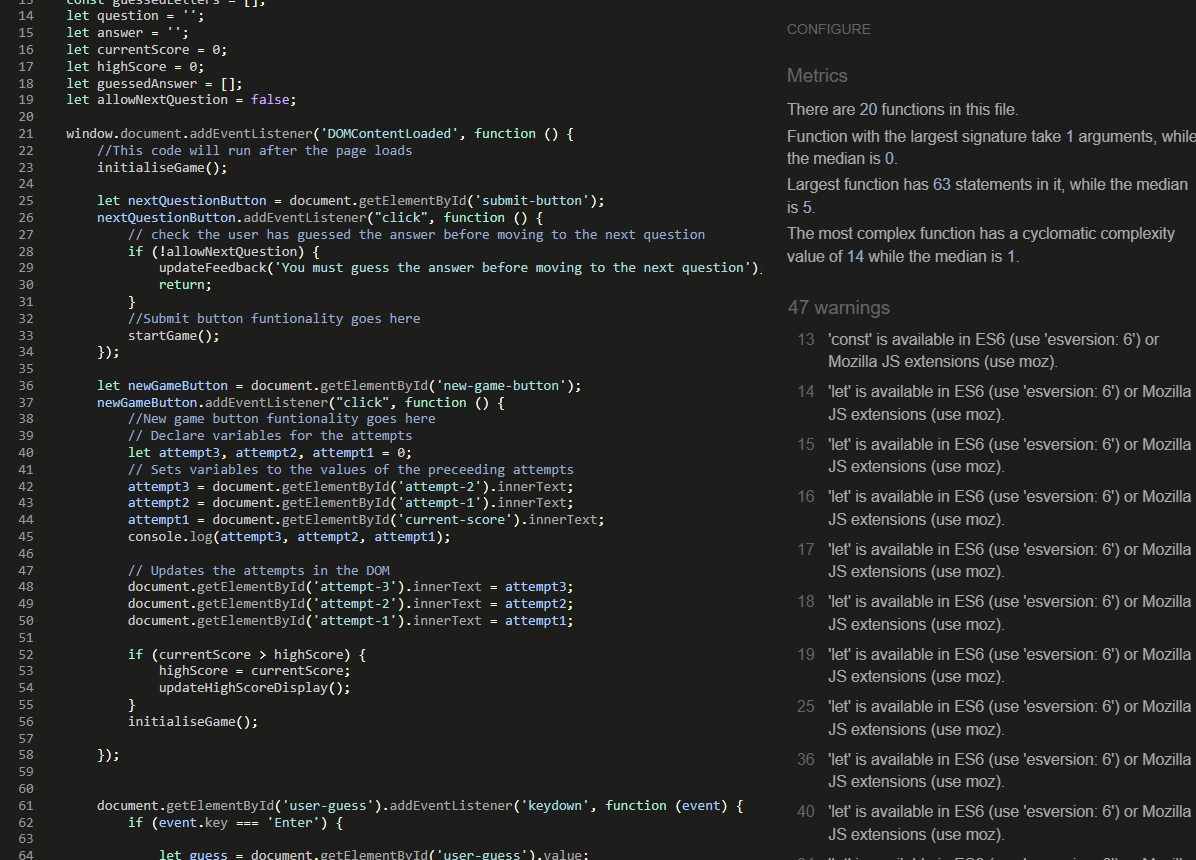
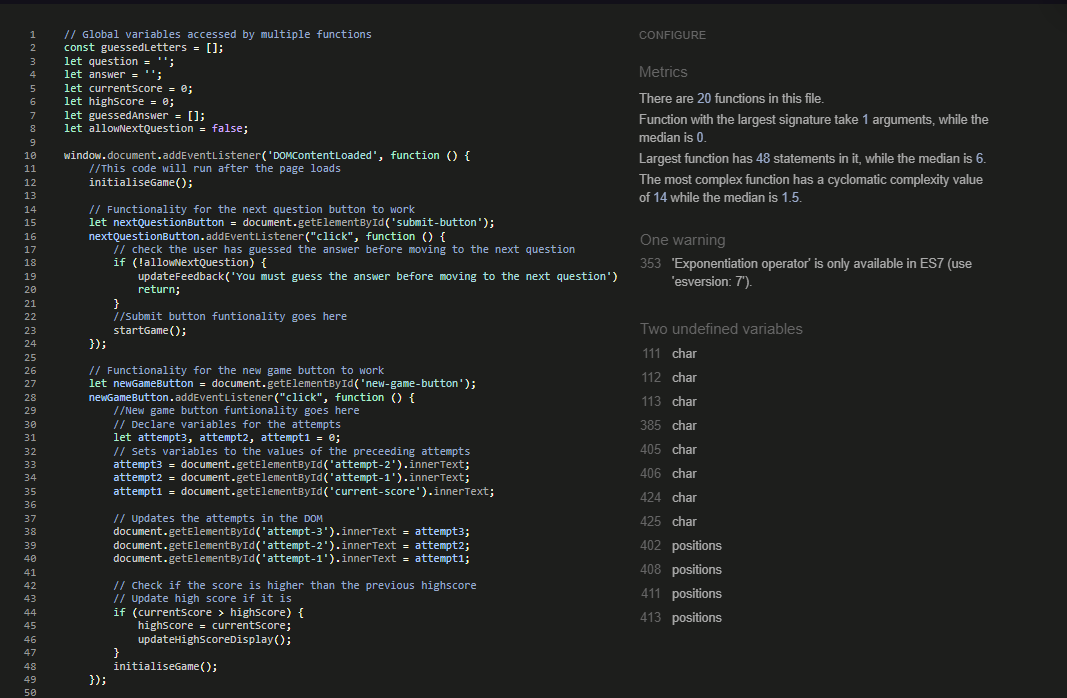
Readme updates

diff --git a/readme.md b/readme.md
@@ -1,19 +1,32 @@
+## [Deployment Link](https://lcorndogl.github.io/Hackathon1-Wheel-of-Fortune/ "Link to the live deployment")
+
 ## Contents
 
 ## Proposal
 
 We will create a text-phrase guessing game. The game will present an common, idiomatic phrase, and the user will guess vowels and consonants, or attempt to guess the phrase as a whole. Guesses will be tracked, and a score calculated at depending on how many letters were guessed before the correct answer was arrived at.
 
-## AI Integration
+## AI
+
+### Integration
 
 As a useful tool for sampling a zeitgeist of English text, ai was helpful for presenting uncommon and common idiomatic phrases.
-Ai was also used to assist with generating user stories, the content generated was hand edited for suitability.
+
+AI was also used to assist with generating user stories, the content generated was hand edited for suitability.
+
+AI was also used to generate the questions and answers that were used in the arrays - Manually validated and adjusted some answers which were not as expected to ensure the answers are correct.
+
+### Codeing with AI
+
+This if test was one entirely derived by ai, along with the plan arrived at to refine the first solution we arrived at
+
+![Ai_code_plan](docs/Promptexample.png)
 
 ## User Experience
 
 ### User Stories
 
-As a user I want to be able to generate questions that show up on screen, and guess what the answer is - wheel of fortune style
+As a user I want to be able to generate questions that show up on screen, and guess what the answer is - wheel of fortune style.
 
 As a user I want to be able to see which letters I have already guessed.
 
@@ -34,12 +47,6 @@ Alternate looks were also proposed as refinements
 Demonstrations of the scalability of the site to larger devices are wireframed below
 
 ![Wireframe4](docs/image_2024-11-27_142015802_720.png)
-
-## Coding with AI
-
-This if test was one entirely derived by ai, along with the plan arrived at to refine the first solution we arrived at
-
-![Ai_code_plan](docs/Promptexample.png)
 
 ## Future Features
 
@@ -69,8 +76,27 @@ Abdulmajeed
 
 ## Features
 
+Instructions Modal for the user to see how to play the game.
 
+Randomly selected question.
 
+Guesses displayed on screen.
+
+Letters used are updated and colour coded for correct/incorrect guesses.
+
+Feedback to the user in case of guesses (Correct/Incorrect/Invalid).
+
+Scores for correct guesses, per letter and a bigger amount for guessing the whole phrase.
+
+Previous 3 games are tracked.
+
+Highscore is tracked across a single session.
+
+New Game button resets the game area to the start condition and updates the previous score/high score (if applicable)
+
+Buttons react on hover so the user knows it will be the one they click.
+
+Next Question button so the user can continue their currrent game. (Validated so it can only be used after a question is solved).
 
 ## Deployment
 
@@ -92,7 +118,11 @@ Low Contrast Cheat Button - Added text shadow around for contrast.
 
 Skipped heading - Set to h1 and used the class of the relevant heading for formatting.
 
-Casting the lower or upper case to the method that passed red or green classes to the DOM behaved incorrectly colouring a correct guess red when it's case differed. - Casted to lowerCase with toLowerCase for checks in line with the rest of the code.
+Casting the lower or upper case to the method that passed red or green classes to the DOM behaved incorrectly colouring a correct guess red when it's case differed - Casted to lowerCase with toLowerCase for checks in line with the rest of the code.
+
+Next question button can be used at will - Added a boolean to say whether triggering the next question method is allowed behind the scenes.
+
+User can repeadly make the same guess to farm score - Added validation to ensure that the guess entered is not already used, in the case of guessing the full word if the entire answer is already displayed on screen provide feedback informing the user they already solved the question.
 
 ### Unresolved
 
@@ -102,11 +132,19 @@ All known bugs are resolved
 
 ### HTML
 
-Basic HTML was used to create the various areas of the page
+Basic HTML was used to create the various areas of the page.
 
 ### CSS
 
+CSS was used to create the styling for the page layout, including several classes and IDs that the JavaScript adds and removes from the HTML depending on the inputs.
+
 ### JavaScript
+
+JavaScript was used to cater to all of the back end functionality of the project and provide the interactivity for the user. This includes but is not limited to:
+
+Get question/answer pairs.
+
+Validate Guesses (Single character/Guess entire phrase - presenting error on invalid inputs (Non-alphabetic/Non-space special characters))
 
 ### Git
 
@@ -128,11 +166,17 @@ CoPilot has been used for code suggestions, as well as troubleshooting logic occ
 
 ### bash terminal
 
-Bash terminal was used for adding and commiting files, as well as swapping between branches, merging between branches and easy structure/
+Bash terminal was used for adding and commiting files, as well as swapping between branches, merging between branches and easy structure/file creation (mkdir/touch).
 
 ### nano
 
+NaNo was used to efficiently present merge conflicts for resolution, and also to handle local commit messages upon merging main into the local branch.
+
 ## Testing
+
+### Console Logs
+
+Console logs were originally scattered around the JavaScript code salt-bae style to assist in seeing what code was executing, where it was breaking & that the logic was functioning as expected. These console.logs were removed at the end of the project as it was not necessary for the functioning of the project and was just used to see what was happening behind the scenes during the development phase.
 
 ### Troubleshooting
 
@@ -144,19 +188,36 @@ The above demonstrates Copilot missing a linked asset, and taking it's best gues
 
 ### Responsivity Images
 
+[Responsiveness Link](https://ui.dev/amiresponsive?url=https://lcorndogl.github.io/Hackathon1-Wheel-of-Fortune/ "Am I responsive link")
+
+![Am I Responsive Screenshot](docs/audits/am-i-responsive.png "Image of the responsiveness check")
+
 ### Validation
 
+#### HTML-Validation
 
+ [HTML Validation Link](https://validator.w3.org/nu/?doc=https%3A%2F%2Flcorndogl.github.io%2FHackathon1-Wheel-of-Fortune%2F)
 
-### Lighthouse Scores
+![HTML Validation](docs/audits/validation-html.png "Error Check from https://validator.w3.org/nu/?doc=https%3A%2F%2Flcorndogl.github.io%2FHackathon1-Wheel-of-Fortune%2F")
 
-## Credits
+#### CSS-Validation
 
-[Stack Overflow - How to form an array of question/answer pairs](https://stackoverflow.com/questions/37252041/storing-quiz-questions-in-array-of-objects)
+ [CSS Validation Link](https://jigsaw.w3.org/css-validator/validator?uri=https%3A%2F%2Flcorndogl.github.io%2FHackathon1-Wheel-of-Fortune%2F&profile=css3svg&usermedium=all&warning=1&vextwarning=&lang=en)
 
-[MDN Docs - Letter spacing code snippet to ensure there is space between letters without HTML stripping out multiple space character whitespaces](https://developer.mozilla.org/en-US/docs/Web/CSS/letter-spacing)
+![CSS Validation](docs/audits/validation-css.png "Error Check from https://jigsaw.w3.org/css-validator/validator?uri=https%3A%2F%2Flcorndogl.github.io%2FHackathon1-Wheel-of-Fortune%2F&profile=css3svg&usermedium=all&warning=1&vextwarning=&lang=en")
 
-[Cloud Convert - Image manipulation](https://cloudconvert.com/png-to-webp "Convert image filesize and format to webp")
+#### JavaScript-Validation
+ [JS Validation Link](https://jshint.com)
+
+![HTML Validation](docs/audits/validation-js.png "Error Check from https://jshint.com")
+
+#### Wave-Validation
+
+[WAVE Validator](https://wave.webaim.org/report#/https://lcorndogl.github.io/Hackathon1-Wheel-of-Fortune/ "Link to the wave validator for the accessibility")
+
+There were several considerations from the WAVE validation which we have reviewed and decided upon the appropriate actions for, these are:
+
+Errors - The error was in relation to an unlabelled form element, however this element is solely used to provide feedback to the user, as such it is supposed to be invisible unless there is any feedback to give
 
 Considerations from the WAVE validation:
 form unlabelled -
@@ -174,27 +235,23 @@ By design, if we want to insert headings between in future.
 Possible heading:
 This refers to the game area, and wasn't styled as a heading.
 
-Considerations from JS validation:
-All of the warnings returned related to versioning, specifically with LET and CONST.
 
-The HTML and CSS validated without error.
+![HTML Validation](docs/audits/validation-WAVE.png "Error Check from https://wave.webaim.org/report#/https://lcorndogl.github.io/Hackathon1-Wheel-of-Fortune/")
 
+### Lighthouse Scores
 
+#### Mobile-Lighthouse-Score
 
-Design - Abdulmajeed
-Features - Gameplay
-Future Features - Mostly implemented (as a stretch goal, ie: colours)
--- Score Persistence
--- Some responsiveness tidy up
+![Mobile Lighthouse Score](docs/audits/lighthouse-mobile.png "Mobile Lighthouse Score")
 
-Technologies User - Copy pasta
+#### Desktop-Lighthouse-Score
 
-Deployment - Deployment Section
+![Desktop Lighthouse Score](docs/audits/lighthouse-desktop.png "Desktop Lighthouse Score")
 
-Testing
---validation
---lighthouse
--- console logs as building to ensure triggers (now removed as tidy up exercise)
+## Credits
 
+[Stack Overflow - How to form an array of question/answer pairs](https://stackoverflow.com/questions/37252041/storing-quiz-questions-in-array-of-objects)
 
-Credits - Exists
+[MDN Docs - Letter spacing code snippet to ensure there is space between letters without HTML stripping out multiple space character whitespaces](https://developer.mozilla.org/en-US/docs/Web/CSS/letter-spacing)
+
+[Cloud Convert - Image manipulation](https://cloudconvert.com/png-to-webp "Convert image filesize and format to webp")
